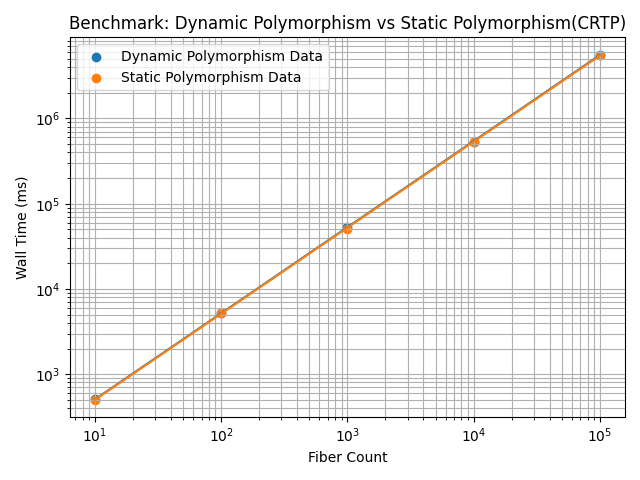
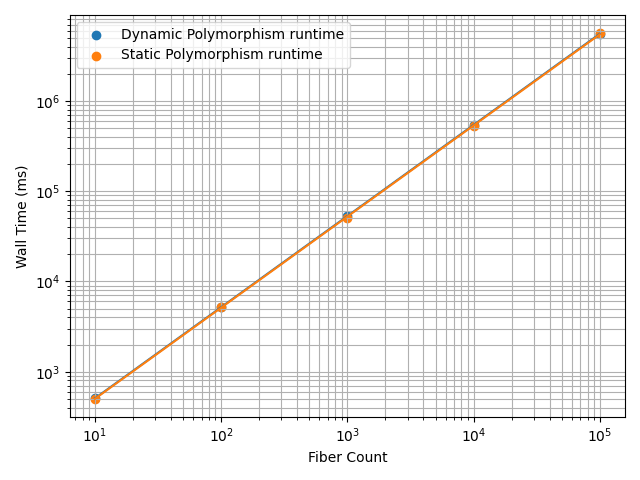
Minor updates.

Changed region(s): [[0.0, 0.0312, 1.0, 0.8438]]

diff --git a/doc/DEVELOPER_GUIDE.md b/doc/DEVELOPER_GUIDE.md
@@ -49,9 +49,9 @@ Refer to the **Benchmarks** section for comparison between runtime with CRTP and
 |------------:|----------------------------------------:|-------------------------:|
 | 10          | 505.5093                   |  502.2362        |
 | 100         | 5185.8594                  | 5272.9212        |
-| 1,000       | 53508.6688                 | 50020.0531       |
-| 10,000      | 534434.1495                | 522941.6485      |
-| 100,000     | 5558305.7331               | 5610230.8736     |
+| 1000       | 53508.6688                 | 50020.0531       |
+| 10000      | 534434.1495                | 522941.6485      |
+| 100000     | 5558305.7331               | 5610230.8736     |
 
 - **Average speedup:** 1.0145
 - **Runtime reduction:** 1.43%
